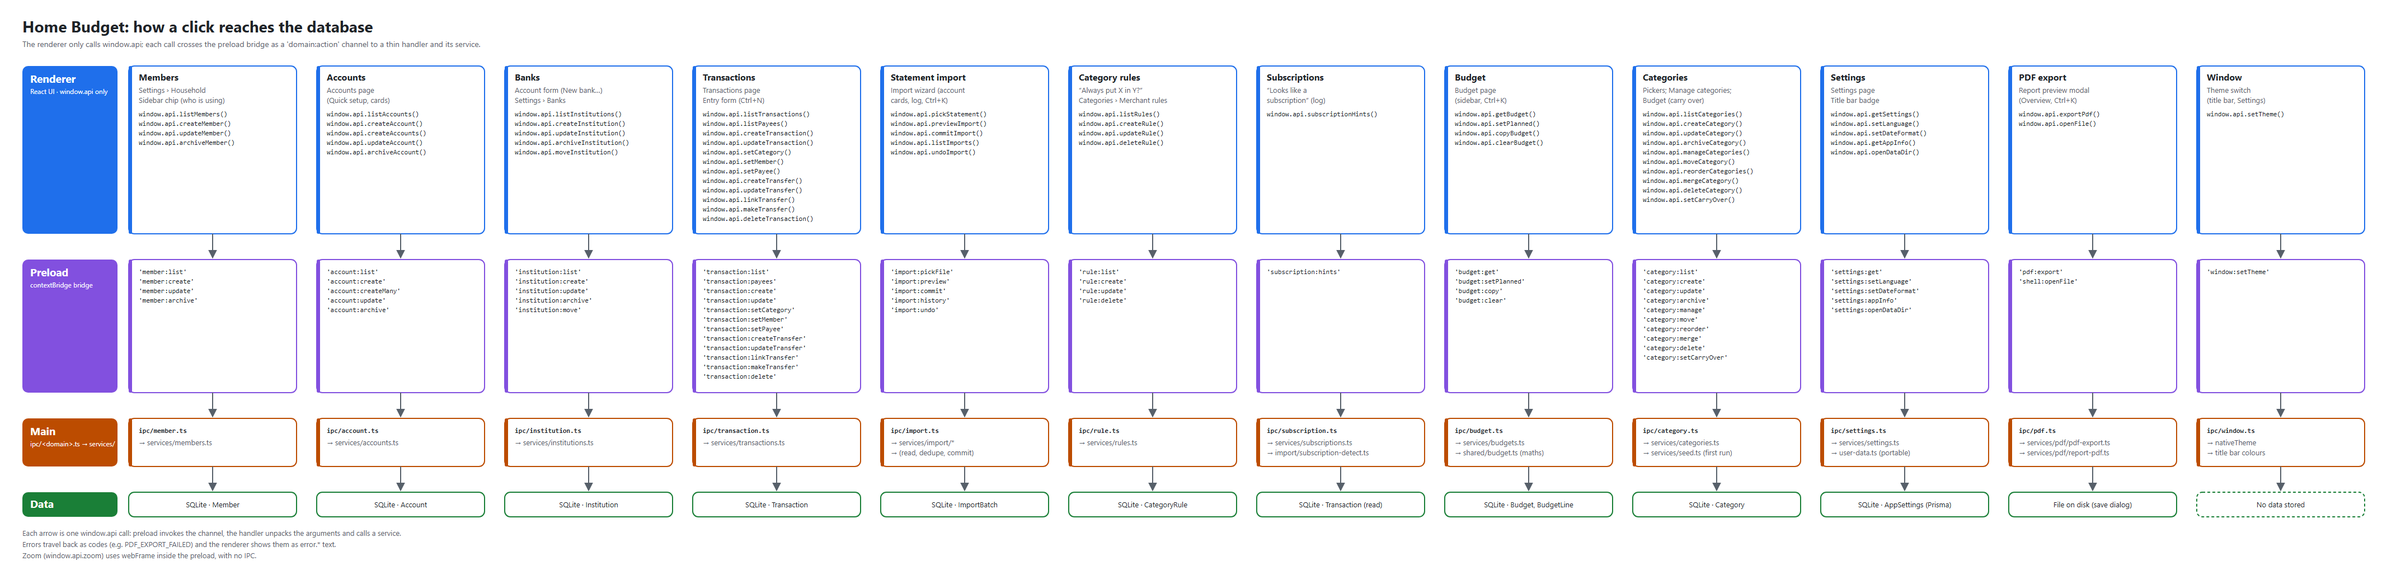
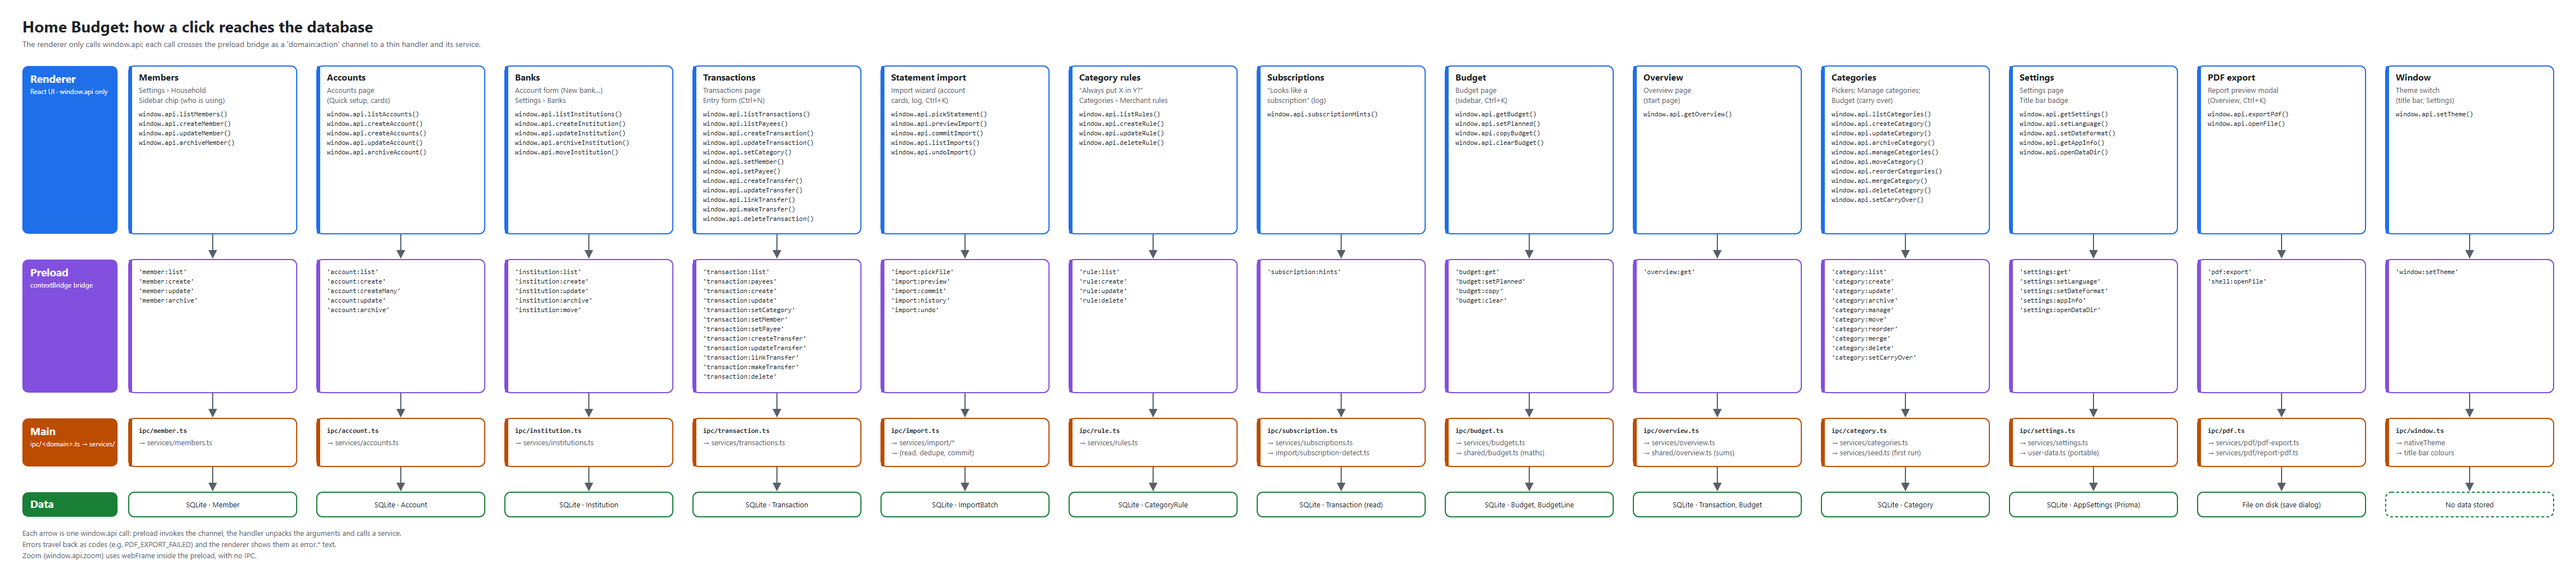
docs: overview feature doc, roadmap done row, architecture and diagram

diff --git a/docs/roadmap.md b/docs/roadmap.md
@@ -1,12 +1,12 @@
 # Home Budget — Feature Roadmap
 
-As of 2026-10-29 · Andrew Kondylis
+As of 2026-10-30 · Andrew Kondylis
 
 ## Overview
 
 The project starts from the Matchday shell (theme, UI kit, UX rules). The Matchday conveniences (palette, hover cards, tour, portable edition, PDF preview) have been ported.
 The first domain slice has shipped: accounts and cards, categories, transactions with quick cash entry, and Alpha
-Bank / Eurobank statement import (plan `.claude/plans/in-the-app-i-quizzical-stroustrup.md`). **14 items** are queued
+Bank / Eurobank statement import (plan `.claude/plans/in-the-app-i-quizzical-stroustrup.md`). **13 items** are queued
 in Future, grouped by theme with one global priority (`#`); the order is a proposal to discuss. Three items wait on a
 decision.
 
@@ -22,6 +22,7 @@ Details live in the linked feature doc (`docs/features/`). Newest first.
 
 | Shipped | Feature | Notes |
 | --- | --- | --- |
+| 2026-10-30 | Overview (live) | The start page from real data: tiles for income and spending this month (transfers left out), **Left to spend** from the budget with its meter (or **No plan yet**), and money in accounts (meal vouchers apart). Each tile opens its detail. Banners name the categories over the plan and the rows to categorise; the setup checklist ticks itself and hides once done; **Upcoming bills** waits for #7 · [overview](features/overview.md) |
 | 2026-10-29 | Banks as an editable list | Add a bank (Revolut, Piraeus, NBG…) from the account form's **+ New bank…** or Settings › **Banks** (rename, reorder, archive) with no code change; common Greek banks and the meal-card issuers listed from the start; grouping and filters on Accounts follow the list and its order, **No bank** last; existing accounts keep their bank (decided 2026-10-29) · [banks](features/banks.md) |
 | 2026-10-28 | Meal-voucher cards | Edenred and Up Hellas cards as their own account kind: top-up = income in **Meal vouchers**, food = ordinary expense, so the budget shows what the family really eats; balance marked **Food only** and kept beside the accounts total; never a transfer source, never imported; overspending warns, never blocks (decided 2026-10-28) · [meal vouchers](features/meal-vouchers.md) |
 | 2026-10-28 | Accounts: group by & filters | Group the account cards by bank, holder or type, each group with its subtotal; filter by type, bank and holder (a parent's card counts as theirs); grouping remembered per PC, filters per session · [accounts](features/accounts.md) |
@@ -45,17 +46,11 @@ Details live in the linked feature doc (`docs/features/`). Newest first.
 
 Sizes: S ≈ ½ day, M ≈ 1–2 days, L > 2 days. *New* marks items added after 2026-10-26.
 
-### Everyday money
-
-| # | Feature | Size | What it does | Depends on / plan | Open |
-| --- | --- | --- | --- | --- | --- |
-| 6 | Overview (live) | M | Stat tiles from real data, upcoming bills, over-budget banners | Transactions, Monthly budget | — |
-
 ### Planning & reminders
 
 | # | Feature | Size | What it does | Depends on / plan | Open |
 | --- | --- | --- | --- | --- | --- |
-| 7 | Subscriptions & bills | M | Recurring rules incl. yearly/quarterly charges with monthly provision, **weekly/biweekly** and "every N"; mark as paid; turn a "looks like a subscription" hint into a rule | Accounts, categories | Auto-create transactions or confirm each? |
+| 7 | Subscriptions & bills | M | Recurring rules incl. yearly/quarterly charges with monthly provision, **weekly/biweekly** and "every N"; mark as paid; turn a "looks like a subscription" hint into a rule; fills the Overview's **Upcoming bills** card | Accounts, categories | Auto-create transactions or confirm each? |
 | 8 | Notifications | M | Sidebar bell (Matchday pattern): bill due, overdue, over budget, instalment due; Windows toast | #7, #9 | Remind N days before? |
 | 17 | Payment calendar *(new)* | M | Amounts due by date with paid marks, pay days across the year; week starts Monday or Sunday | #7 | — |
 | 9 | Debts & loans | M | Loans, interest-free instalments, money owed; remaining balance, payoff date, schedule; **snowball / avalanche** payoff with an extra monthly amount, interest before payment, manual balance override | Accounts | Interest calculation needed? |

diff --git a/docs/features/overview.md b/docs/features/overview.md
@@ -1,0 +1,67 @@
+# Overview
+
+**User's job:** open the app and see in five seconds how this month is going and the one thing that needs the
+parents next. It is the default page (**Overview** in the sidebar, `Ctrl+K`) and always shows the current month.
+
+## UX
+
+- **Header:** "Overview", the month underneath, and **Print worksheet** on the right (the blank monthly sheet).
+- **Tiles** (2×2 on narrow windows, one row from `lg`). Each whole tile is a button that opens where its number
+  comes from:
+  - **Income this month**: every income row, categorised or not. The hint shows "Expected €x" when the budget plans
+    income. Opens the log on this month.
+  - **Spent this month**: every expense row. Opens the log on this month.
+  - **Left to spend**: from the budget (available − spent), with the budget's meter and "Over the plan by €x" in red
+    text. Without a plan it reads **No plan yet · Plan this month →** instead of a made-up 0. Opens **Budget** on
+    this month.
+  - **In accounts**: the sum of the active accounts that can pay for anything (credit cards count as debt). The
+    meal-voucher balance is shown beside it as "+ €x meal vouchers" (food only, not in the total). Opens
+    **Accounts & cards**.
+- **Banners**, under the tiles and most urgent first; they never repeat a tile:
+  - **Over the plan** (warning icon and text, so colour is never the only sign): names the two categories that are
+    furthest over ("Super market by €120, Eating out by €40"), then "and N more". **Open budget**.
+  - **To categorise**: the budget's text and its **Categorise** action (opens the log on this month's rows with no
+    category).
+- **Setup checklist:** members, accounts, categories and budget, each ticked from real data and each with a link
+  (Household, Accounts, Categories, Budget). The card hides once every step is done, so the page then belongs to
+  the month.
+- **Upcoming bills:** a quiet card that says bills and subscriptions will show there once **Subscriptions & bills**
+  (roadmap #7) arrives. It has no numbers and no action until then.
+- **States:** "…" in the tiles while loading. A load error shows a warning banner with **Try again**. The page
+  reloads after every write (the ledger store's `revision`), so a transaction saved with `Ctrl+N` updates it at once.
+
+## Behaviour
+
+- Income and Spent are cash flow: every row of the month, with transfers between own accounts left out. They can
+  differ from the budget's actuals, which count only categorised rows.
+- Left to spend and the over-budget list come from `getBudgetMonth` unchanged, so the Overview and Budget always
+  agree. Only outgoing categories with `leftCents < 0` count as over; income above its plan never does.
+- Meal-voucher cards are never in the spendable total (`isSpendable`). Archived accounts are left out.
+- The Budget step counts as done when this month or last month has a plan.
+
+## Code
+
+| Path | Role |
+| --- | --- |
+| `src/main/services/overview.ts` | `getOverview(month)`: the budget month plus the month's income and spending |
+| `src/main/ipc/overview.ts` | `overview:get` handler |
+| `src/shared/overview.ts` | `OverviewMonth`, `overBudgetCategories`, `accountTotals` |
+| `src/renderer/src/pages/OverviewScreen.tsx` | Loading, setup checklist, upcoming bills card |
+| `src/renderer/src/components/overview/OverviewTiles.tsx` | The four tiles as buttons |
+| `src/renderer/src/components/overview/OverviewBanners.tsx` | Over the plan and To categorise banners |
+
+## IPC
+
+| Channel | Args → result | Errors |
+| --- | --- | --- |
+| `overview:get` | `month: 'yyyy-MM'` → `OverviewMonth` | `INVALID_INPUT` |
+
+## Tests
+
+- `src/shared/overview.test.ts`: over-budget order, income ignored, account totals (vouchers apart, archived out).
+- `src/main/__tests__/overview-services.test.ts`: uncategorised rows counted, transfers left out, an empty month is 0
+  and not −0, the plan comes along, and a bad month is rejected.
+
+## Later
+
+- Upcoming bills from **Subscriptions & bills** (#7); over-budget and bill-due notifications (#8).

diff --git a/docs/architecture.md b/docs/architecture.md
@@ -50,7 +50,7 @@ src/renderer/
     components/shell/        TitleBar, Sidebar, icons
     hooks/                   useThemeSync, useSidebarResize
     lib/                     nav-items, ui-actions, transitions, date-format, ipc-errors
-    pages/                   OverviewScreen, SettingsScreen, PlannedScreen (placeholder for unbuilt areas)
+    pages/                   OverviewScreen (live month: tiles, banners, setup), SettingsScreen, PlannedScreen (placeholder for unbuilt areas)
     store/ui.ts              Theme, sidebar, folded cards, tour seen (persisted); palette, tour step (session)
     i18n/                    el.json, en.json
 prisma/
